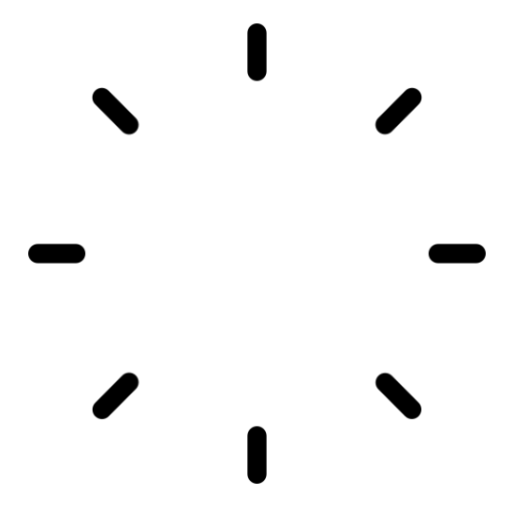
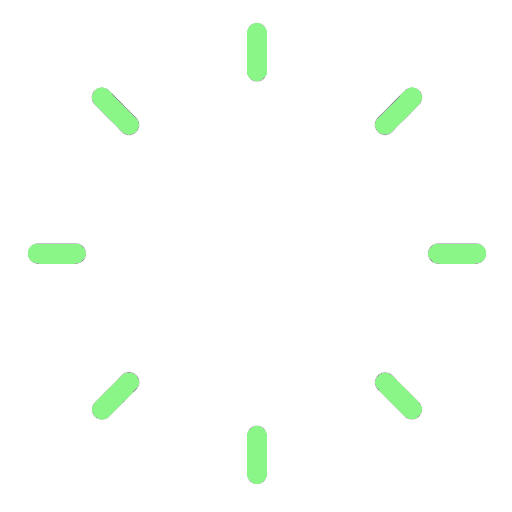
Style changes

diff --git a/src/style.css b/src/style.css
@@ -19,10 +19,13 @@ ubuntu-sans- {
   --destroyer-coord: 44%;
   --submarine-coord: 50%;
   --patrolboat-coord: 56%;
-  --ship-color: black;
+  --background-color: black;
+  --accent-color: #8bf688;
+  --radar-color: #09562e;
 }
 
 body {
+  background-image: radial-gradient(var(--background-color), #010f08);
   height: 100vh;
   margin: 0;
   display: flex;
@@ -34,10 +37,11 @@ body {
 }
 
 .startScreen {
+  background-image: radial-gradient(var(--background-color), #010f08);
+  color: var(--accent-color);
   position: absolute;
   height: 100vh;
   width: 100vw;
-  background-color: rgb(255, 255, 255);
   display: flex;
   opacity: 1;
   flex-flow: column;
@@ -67,10 +71,22 @@ body {
   gap: 10px;
 }
 
+.nameInput > input {
+  color: #8bf688;
+  height: 20px;
+  background-color: transparent;
+  border: none;
+  border-bottom: 2px solid var(--accent-color);
+}
+
+.nameInput > input:hover {
+  outline: 2px solid #8bf688;
+}
+
 .errorText {
   font-family: "Ubuntu Sans", sans-serif;
   font-size: 1.1em;
-  font-weight: 300;
+  font-weight: 500;
   color: red;
   display: none;
   position: fixed;
@@ -101,6 +117,7 @@ h2 {
   margin-bottom: 10px;
   font-size: 2.5em;
   font-weight: 100;
+  color: var(--accent-color);
 }
 
 .playerBoard,
@@ -111,11 +128,15 @@ h2 {
   grid-template-rows: repeat(10, 1fr);
   grid-template-columns: repeat(10, 1fr);
   gap: 1px;
+  background-image: radial-gradient(
+    var(--radar-color),
+    var(--background-color)
+  );
 }
 
 .playerBoard > div,
 .enemyBoard > div {
-  border: solid 1px rgb(161, 161, 161);
+  border: solid 1px var(--accent-color);
 }
 
 .enemyName {
@@ -183,9 +204,9 @@ h2 {
 }
 
 .carrier {
+  background-color: var(--accent-color);
   display: none;
   grid-template-columns: repeat(5, var(--boxsize));
-  background-color: var(--ship-color);
   height: var(--boxsize);
   position: fixed;
   top: var(--carrier-coord);
@@ -193,9 +214,9 @@ h2 {
 }
 
 .battleship {
+  background-color: var(--accent-color);
   display: none;
   grid-template-columns: repeat(4, var(--boxsize));
-  background-color: var(--ship-color);
   height: var(--boxsize);
   position: absolute;
   top: var(--battleship-coord);
@@ -203,9 +224,9 @@ h2 {
 }
 
 .destroyer {
+  background-color: var(--accent-color);
   display: none;
   grid-template-columns: repeat(3, var(--boxsize));
-  background-color: var(--ship-color);
   height: var(--boxsize);
   position: absolute;
   top: var(--destroyer-coord);
@@ -213,9 +234,9 @@ h2 {
 }
 
 .submarine {
+  background-color: var(--accent-color);
   display: none;
   grid-template-columns: repeat(3, var(--boxsize));
-  background-color: var(--ship-color);
   height: var(--boxsize);
   position: absolute;
   top: var(--submarine-coord);
@@ -223,9 +244,9 @@ h2 {
 }
 
 .patrolboat {
+  background-color: var(--accent-color);
   display: none;
   grid-template-columns: repeat(2, var(--boxsize));
-  background-color: var(--ship-color);
   height: var(--boxsize);
   position: absolute;
   top: var(--patrolboat-coord);
@@ -233,12 +254,12 @@ h2 {
 }
 
 .ship {
-  background-color: rgb(0, 0, 0);
+  background-color: var(--accent-color);
   transition: all 0.25s linear;
 }
 
-.hit::before{
-  background-image: url(./fire.png);
+.hit::before {
+  background-image: url(./fire.svg);
   content: "";
   width: 33px;
   height: 33px;
@@ -263,25 +284,25 @@ h2 {
 
 .hit {
   transition: all 0.5s linear;
-  background-color: rgb(0, 0, 0);
+  background-color: var(--accent-color);
 }
 
 @keyframes bomb {
   0% {
-    background-image: url("./bomb.png");
+    background-image: url("./bomb.svg");
     transform: translateY(-100px);
     opacity: 1;
   }
   100% {
     transform: translateY(0);
-    background-image: url("./bomb.png");
+    background-image: url("./bomb.svg");
     opacity: 1;
   }
 }
 
 .playerHitMessage,
 .enemyHitMessage {
-  color: red;
+  color: var(--background-color);
   top: 0;
   position: fixed;
   opacity: 0;
@@ -323,8 +344,9 @@ h2 {
 }
 
 .resultScreen {
+  color: var(--accent-color);
   position: fixed;
-  background-color: rgba(0, 0, 0, 0.5);
+  background-color: rgba(0, 0, 0, 0.8);
   height: 100vh;
   width: 100vw;
   display: flex;
@@ -332,4 +354,21 @@ h2 {
   justify-content: center;
   align-items: center;
   display: none;
+}
+
+.resultScreen>h1 {
+  font-size: 6em;
+  font-weight: 100;
+  margin: 5px;
+}
+
+button {
+  background-color: var(--accent-color);
+  border: none;
+  outline: none;
+  color: black;
+  font-family: "Ubuntu Sans", sans-serif;
+  font-weight: 600;
+  width: 100px;
+  height: 40px;
 }
